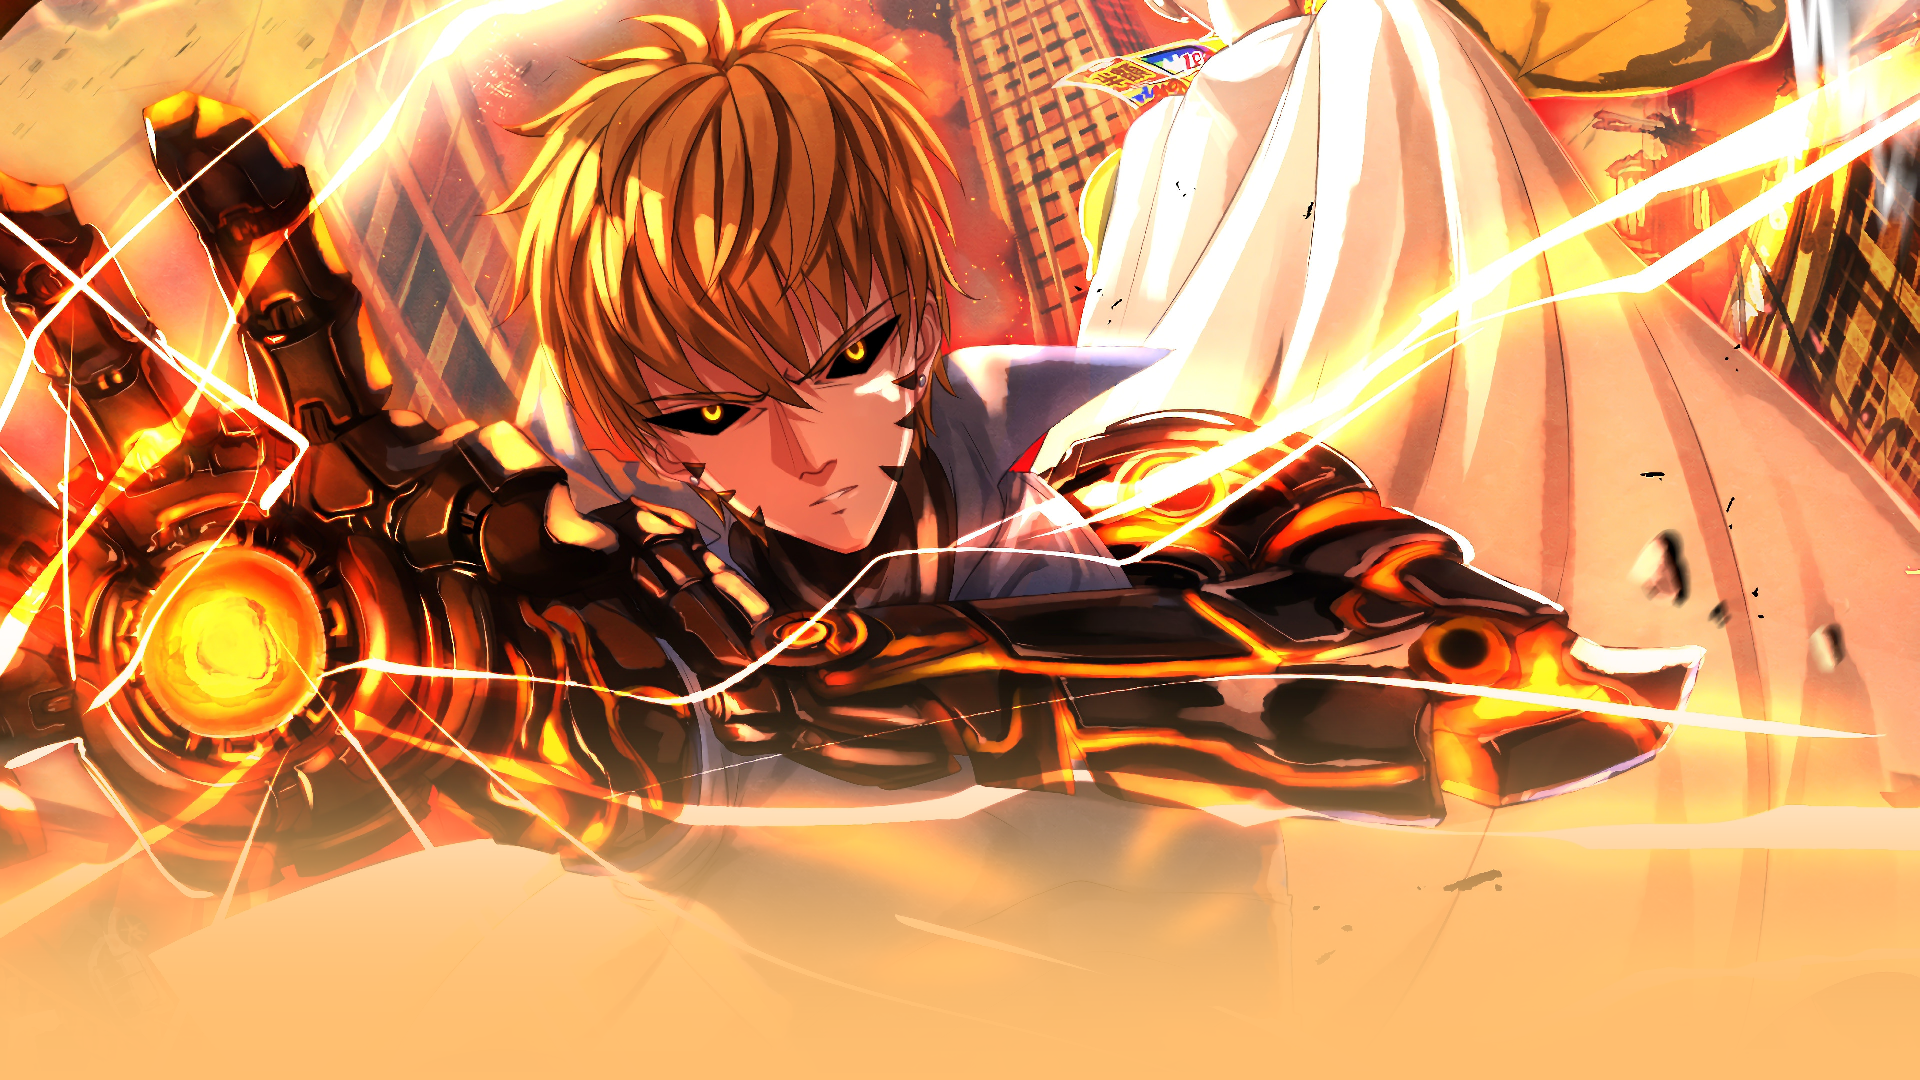
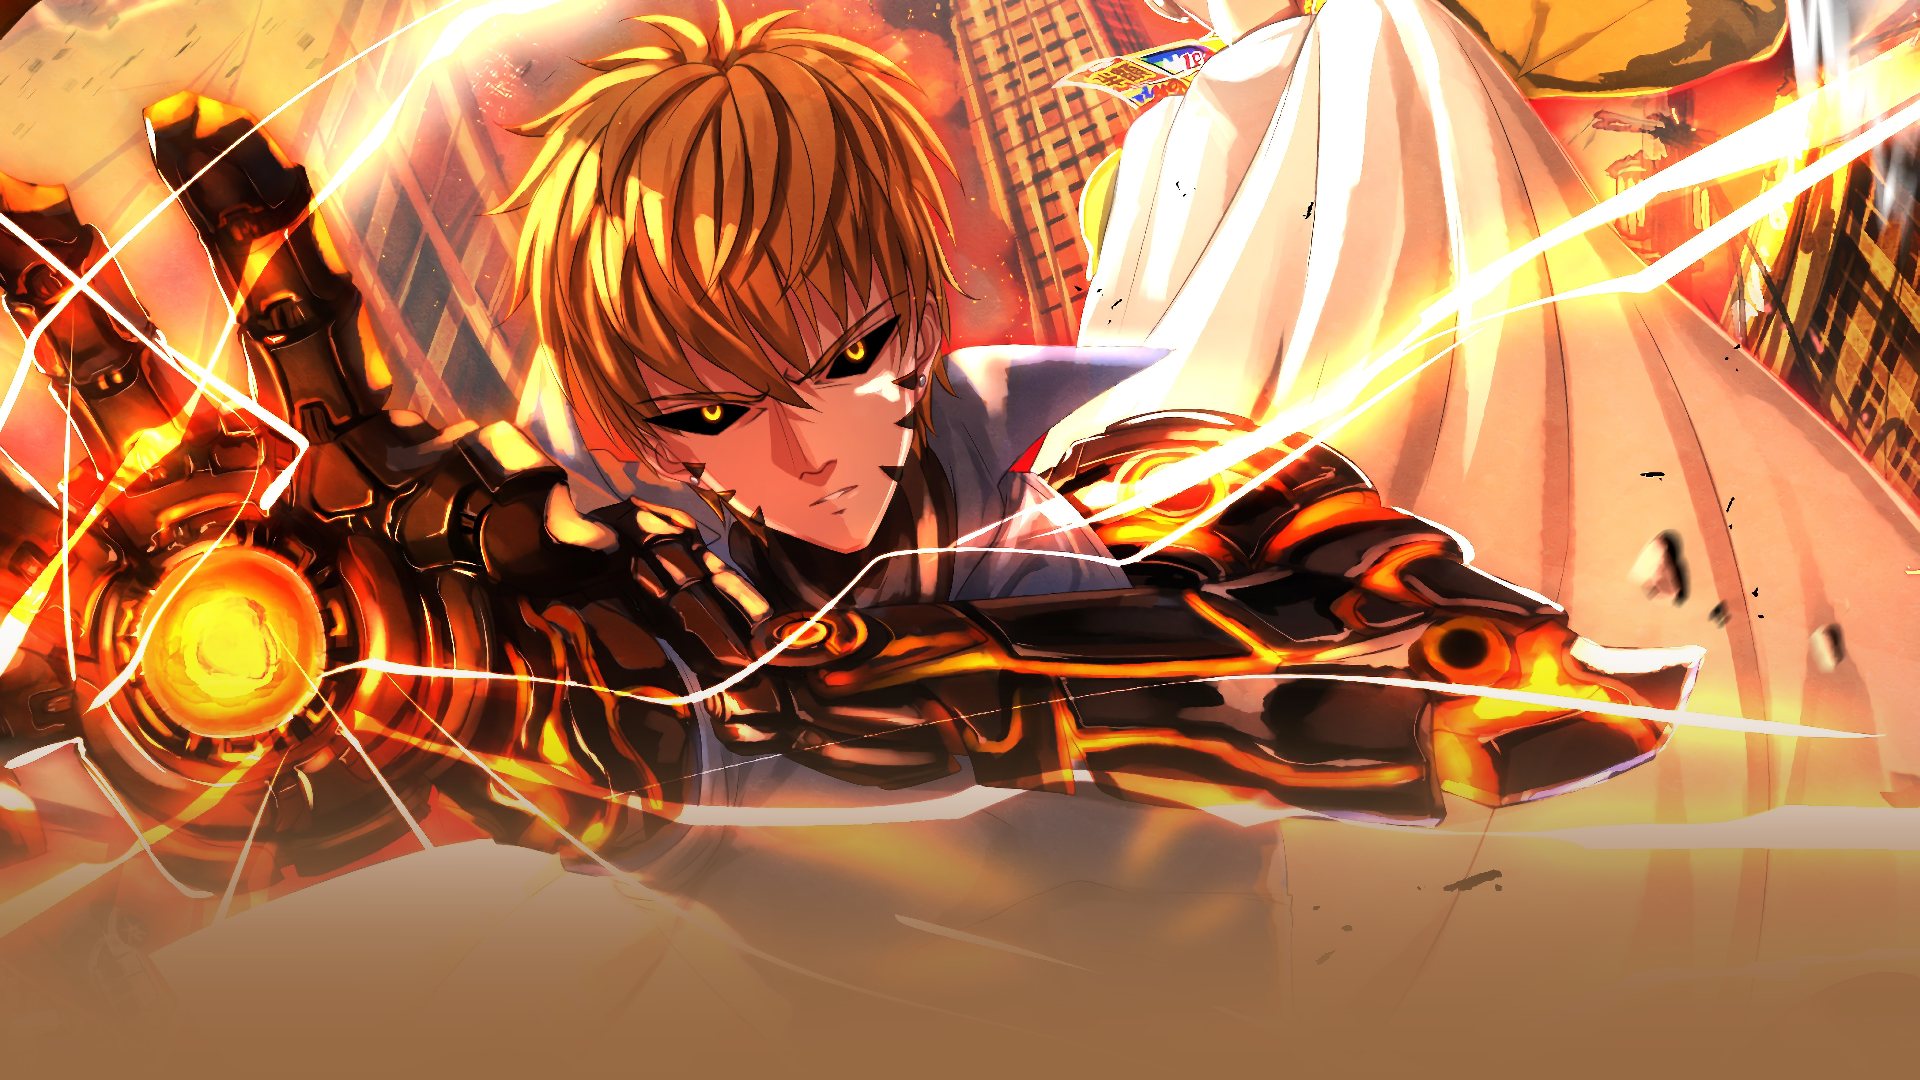
Push 2

diff --git a/src/prefs.js b/src/prefs.js
@@ -85,7 +85,7 @@ function buildPrefsWidget() {
     });
     // Label to notify about dependencies
     let Label1 = new Gtk.Label({
-        label: "Make Sure to install dependencies",
+        label: "Integrate your wallpaper to your Desktop",
         halign: Gtk.Align.CENTER,
         use_markup: true,
         visible: true
@@ -114,42 +114,88 @@ function buildPrefsWidget() {
             }
         );
     })
-    // this.settings.bind(
-    //     'picture-uri',
-    //     imageButton,
-    //     'label',
-    //     Gio.SettingsBindFlags.DEFAULT
-    // );
-
-    // Create a label & input for `svg path`
-    let svgpathLabel = new Gtk.Label({
-        label: '<b>SVG Path:</b> (absolute)',
+    // Overlay Menu
+    let OverlayOptions = {
+        "Bottom Gradient Waves" : "/resources/bottom_gradient_waves.png",
+        "Top Solid Convex" : "/resources/top_solid_convex.png"
+      };
+    let overlayMenuLabel = new Gtk.Label({
+        label: '<b>Overlay:</b>',
         halign: Gtk.Align.START,
         use_markup: true,
-        visible: true
+        sensitive: !this.settings.get_boolean('is-custom-overlay'),
     });
-    let overlayButton = new Gtk.Button({
-        label: shrink_string(this.settings.get_string("svg-uri")),
+
+    let overlayMenuToggle = new Gtk.ComboBoxText({
+        halign: Gtk.Align.END,
+        sensitive: !this.settings.get_boolean('is-custom-overlay'),
+    });
+    // let options = ["Bottom Gradient Waves", "Top Solid Convex"];
+    // for (let item of options)
+    //     overlayMenuToggle.append_text(item);
+    Object.entries(OverlayOptions).forEach(([key, value]) => {
+        overlayMenuToggle.append_text(key);
+     });
+        
+
+    overlayMenuToggle.set_active(this.settings.get_enum("overlay-style") || 0);
+    overlayMenuToggle.connect('changed', combobox => {
+        this.settings.set_enum("overlay-style", combobox.get_active());
+        overlayMenuToggle.set_active(this.settings.get_enum("overlay-style") || 0);
+    });
+
+    // Create a label & input for custom `overlay path`
+    let overlayPathLabel = new Gtk.Label({
+        label: '<b>Custom overlay Path:</b> (absolute)',
+        halign: Gtk.Align.START,
+        use_markup: true,
+        sensitive: this.settings.get_boolean('is-custom-overlay')
+    });
+    let overlayPathButton = new Gtk.Button({
+        label: shrink_string(this.settings.get_string("overlay-uri")),
         valign: Gtk.Align.CENTER,
         halign: Gtk.Align.END,
+        sensitive: this.settings.get_boolean('is-custom-overlay')
     });
-    overlayButton.connect('clicked', ()=> {
+    overlayPathButton.connect('clicked', ()=> {
         _showFileChooser(
             'Select Overlay File (.png)',
             { action: Gtk.FileChooserAction.OPEN },
             "Open",
             filename => {
-                this.settings.set_string("svg-uri",filename);
-                overlayButton.label = shrink_string(filename);
+                this.settings.set_string("overlay-uri",filename);
+                overlayPathButton.label = shrink_string(filename);
             }
         );
     })
-    // this.settings.bind(
-    //     'svg-uri',
-    //     overlayButton,
-    //     'label',
-    //     Gio.SettingsBindFlags.DEFAULT
-    // );
+
+    // Create a button for custom overlay selection
+    let customOverlayLabel = new Gtk.Label({
+        label: '<b>Use Custom Overlay file:</b>',
+        halign: Gtk.Align.START,
+        use_markup: true
+    });
+
+    let customOverlayToggle = new Gtk.Switch({
+        active: false,
+        halign: Gtk.Align.END,
+        hexpand: true,
+        visible: true
+    });
+    function customOverlayToggleOrganiseMenu(settings){
+        // I dont know why but the boolean values are somehow sent reversed here, hence the opposite assignment
+        overlayMenuLabel.sensitive  = settings.get_boolean('is-custom-overlay');
+        overlayMenuToggle.sensitive = settings.get_boolean('is-custom-overlay');
+        overlayPathLabel.sensitive  = !settings.get_boolean('is-custom-overlay');
+        overlayPathButton.sensitive = !settings.get_boolean('is-custom-overlay');
+    }
+    this.settings.bind(
+        'is-custom-overlay',
+        customOverlayToggle,
+        'active',
+        Gio.SettingsBindFlags.DEFAULT
+    );
+    customOverlayToggle.connect("state-set",() => {customOverlayToggleOrganiseMenu(this.settings);});
 
     // Create a label & imput for color
     let changeColorLabel = new Gtk.Label({
@@ -165,7 +211,7 @@ function buildPrefsWidget() {
         homogeneous: false,
     });
     let colorlabel = new Gtk.Label({
-        label: this.settings.get_string('svg-color'),
+        label: this.settings.get_string('overlay-color'),
         halign: Gtk.Align.END,
         use_markup: true,
         visible: true
@@ -176,11 +222,11 @@ function buildPrefsWidget() {
         halign: Gtk.Align.END,
     });
     rgba = colorentry.get_rgba();
-    rgba.parse(this.settings.get_string('svg-color'));
+    rgba.parse(this.settings.get_string('overlay-color'));
     colorentry.set_rgba(rgba);
     colorentry.connect('color-set',() => {
         let color = cssHexString(colorentry.get_rgba().to_string());
-        this.settings.set_string('svg-color',color);
+        this.settings.set_string('overlay-color',color);
         colorlabel.label = color;
     });
     colorinp.append(colorlabel);
@@ -191,15 +237,23 @@ function buildPrefsWidget() {
         label: '',
     });
 
-    
-
     // Apply Button
     let applyButton = new Gtk.Button({
         label: "Apply Wallpaper",
         visible: true
     });
     applyButton.connect('clicked', () => {
-        let response = extension.applyWallpaper();
+        ErrorLabel.label = "Applying...";
+        // extension.saveExceptionLog(this.settings.get_enum('overlay-style'));
+        // extension.saveExceptionLog(extension.overlay_map[this.settings.get_enum('overlay-style')]);
+        // extension.saveExceptionLog(Me.path + extension.overlay_map[this.settings.get_enum('overlay-style')]);
+        let overlay_path = Me.path + OverlayOptions[Object.keys(OverlayOptions)[this.settings.get_enum('overlay-style')]];
+        extension.saveExceptionLog(overlay_path);
+        if (this.settings.get_boolean('is-custom-overlay')){
+            overlay_path = this.settings.get_string('overlay-uri');
+        }
+        
+        let response = extension.applyWallpaper(overlay_path);
         if (response != "true\n"){
             extension.saveExceptionLog("Response: "+response);
             // Settings.set_string('error-msg',response);
@@ -210,15 +264,14 @@ function buildPrefsWidget() {
     });
 
     // attach elements to positions
-    prefsWidget.attach(Label1,           0, 1, 2, 1);
-    prefsWidget.attach(imagepathLabel,   0, 2, 1, 1);
-    prefsWidget.attach(imageButton,      1, 2, 1, 1);
-    prefsWidget.attach(svgpathLabel,     0, 3, 1, 1);
-    prefsWidget.attach(overlayButton,    1, 3, 1, 1);
-    prefsWidget.attach(changeColorLabel, 0, 4, 1, 1);
-    prefsWidget.attach(colorinp,       1, 4, 1, 1);
-    prefsWidget.attach(applyButton,      0, 6, 2, 1);
-    prefsWidget.attach(ErrorLabel,       0, 7, 2, 1);
+                            prefsWidget.attach(Label1,             0, 1, 2, 1);
+    prefsWidget.attach(imagepathLabel,     0, 2, 1, 1); prefsWidget.attach(imageButton,        1, 2, 1, 1);
+    prefsWidget.attach(overlayMenuLabel,   0, 3, 1, 1); prefsWidget.attach(overlayMenuToggle,  1, 3, 1, 1);
+    prefsWidget.attach(customOverlayLabel, 0, 4, 1, 1); prefsWidget.attach(customOverlayToggle,1, 4, 1, 1);
+    prefsWidget.attach(overlayPathLabel,   0, 5, 1, 1); prefsWidget.attach(overlayPathButton,      1, 5, 1, 1);
+    prefsWidget.attach(changeColorLabel,   0, 6, 1, 1); prefsWidget.attach(colorinp,           1, 6, 1, 1);
+                            prefsWidget.attach(applyButton,        0, 7, 2, 1);
+                            prefsWidget.attach(ErrorLabel,         0, 8, 2, 1);
 
     // Return our widget which will be added to the window
     return prefsWidget;

diff --git a/src/extension.js b/src/extension.js
@@ -16,9 +16,14 @@ const home_dir = GLib.get_home_dir();
 
 let logSize = 8000; // about 8k
 
+let overlay_map;
 
 /////////////////////////////////////////
 // Important functions
+function get_overlay_path_from_enum(v){
+  return overlay_map[v];
+}
+
 function modifySetting(schema_path, setting_id, setting_value){
   // This function assumes that value is always string
   let setting = new Gio.Settings({schema: schema_path});
@@ -65,17 +70,16 @@ function saveExceptionLog(e){
 
 let modWallpaper = Me.path + "/modWallpaper.png"
 
-function createWallpaper(){
+function createWallpaper(overlay_path){
   let image_path = Settings.get_string('picture-uri');
-  let svg_path = Settings.get_string('svg-uri');
-  let svg_color = Settings.get_string('svg-color');
-  let command = Me.path + "/WallpaperCover.py '"+image_path + "' '"+ svg_path + "' '"+ modWallpaper + "' '" + svg_color + "'";
+  let overlay_color = Settings.get_string('overlay-color');
+  let command = Me.path + "/WallpaperCover.py '"+image_path + "' '"+ overlay_path + "' '"+ modWallpaper + "' '" + overlay_color + "'";
   var [ok, out, err, exit] = GLib.spawn_command_line_sync(command);
   return out;
 }
 
-function applyWallpaper(){
-  let response = createWallpaper();
+function applyWallpaper(overlay_path){
+  let response = createWallpaper(overlay_path);
   if(response == "true\n"){
     setWallpaper(Settings.get_string("picture-uri"));
     setWallpaper(modWallpaper);
@@ -94,6 +98,10 @@ function init() {
 }
 
 function enable() {
+  overlay_map = {
+    "0" : "/resources/bottom_gradient_waves.png",
+    "1" : "/resources/top_solid_convex.png"
+  };
 }
 
 function disable() {

diff --git a/src/WallpaperCover.py b/src/WallpaperCover.py
@@ -18,6 +18,7 @@ def create_overlay(image,overlay,out_path,color):
     img = img.resize((screen_width,screen_height),resample=0,box=(0.5*(w-nw),0.5*(h-nh),0.5*(w+nw),0.5*(h+nh)))
     
     overlay = Image.open(overlay)
+    overlay = overlay.resize((screen_width,screen_height),resample=0)
     solid_color = Image.new('RGB', img.size, color=color)
     img.paste(solid_color,(0,0),overlay) # adding solid color image on top with overlay as mask
     img.save(out_path)
